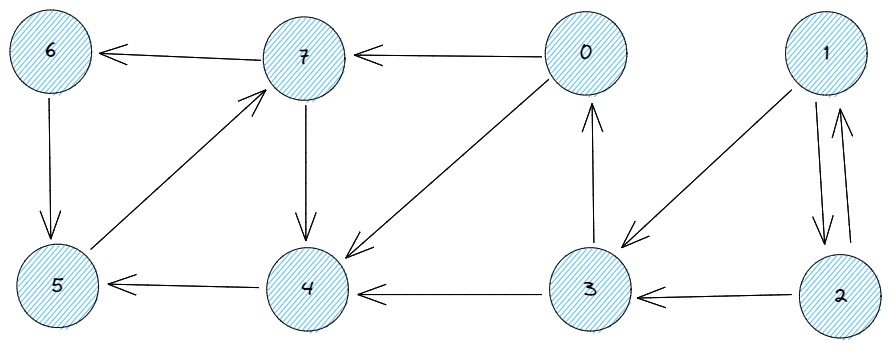
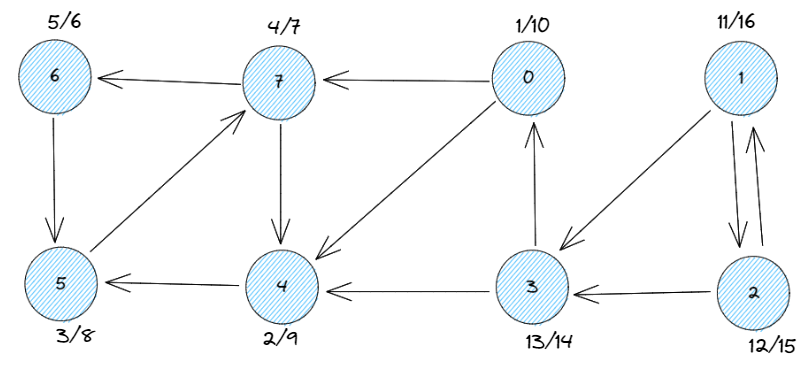
Projeto finalizado.

diff --git a/projeto.c b/projeto.c
@@ -66,7 +66,7 @@ int isEmpty(FILA *q);
 void printPath(GRAFO* g, int s, int v, int* pi);
 void breadthFirstSearch(GRAFO* g, int s);
 void buscaEmLargura();
-
+void dfsVisit(GRAFO* g, int u, int* cor, int* d, int* f, int* pi);
 void buscaEmProfundidade();
 
 
@@ -843,7 +843,7 @@ int isEmpty(FILA *q) {
 }
 
 void buscaEmProfundidade() {
-    FILE* fp = fopen("grafoBFS.txt", "r+");
+    FILE* fp = fopen("grafoDFS.txt", "r+");
 
     GRAFO g;
     fscanf(fp, "%d %d %c %d", &g.cabecalho.V, &g.cabecalho.E, &g.cabecalho.tipo, &g.cabecalho.peso);
@@ -854,5 +854,56 @@ void buscaEmProfundidade() {
 
     imprimeLista(&g);
 
+    depthFirstSearch(&g);
+
+    fclose(fp);
+
     return;
+}
+
+int tempo;
+void depthFirstSearch(GRAFO* g) {
+    int cor[g->cabecalho.V];
+    int d[g->cabecalho.V]; //instante da descoberta
+    int f[g->cabecalho.V]; //instante da finalizacao
+    int pi[g->cabecalho.V];
+
+    //inicializacao
+    int i;
+    for (i = 0; i < g->cabecalho.V; i++) {
+        cor[i] = BRANCA;
+        pi[i] = NIL;
+    }
+
+    tempo = 0;
+    for (i = 0; i < g->cabecalho.V; i++) {
+        if (cor[i] == BRANCA) {
+            dfsVisit(g, i, cor, d, f, pi);
+        }
+    }
+
+    printf("\n");
+    printf("VERTICE\t\t\tDESCOBERTA\t\tFINALIZACAO\n");
+    for(i = 0; i < g->cabecalho.V; i++) {
+        printf("%d\t\t\t%d\t\t\t%d\n", i, d[i], f[i]);
+    }
+}
+
+void dfsVisit(GRAFO* g, int u, int* cor, int* d, int* f, int* pi) {
+    cor[u] = CINZA;
+    tempo = tempo + 1;
+    d[u] = tempo;
+    
+    ADJ* list = g->listaAdj[u].head;
+    while(list) {
+        if (cor[list->vertice] == BRANCA) {
+            pi[list->vertice] == u;
+            dfsVisit(g, list->vertice, cor, d, f, pi);
+        }
+        list = list->next;
+    }
+
+    cor[u] = PRETA;
+    tempo = tempo + 1;
+    f[u] = tempo;
 }
